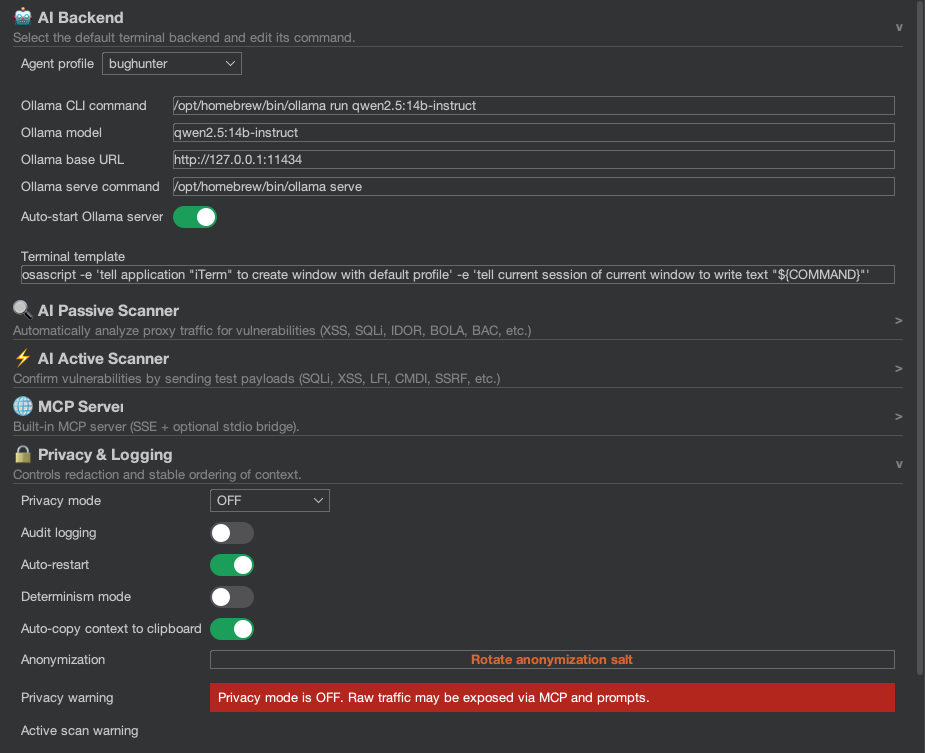
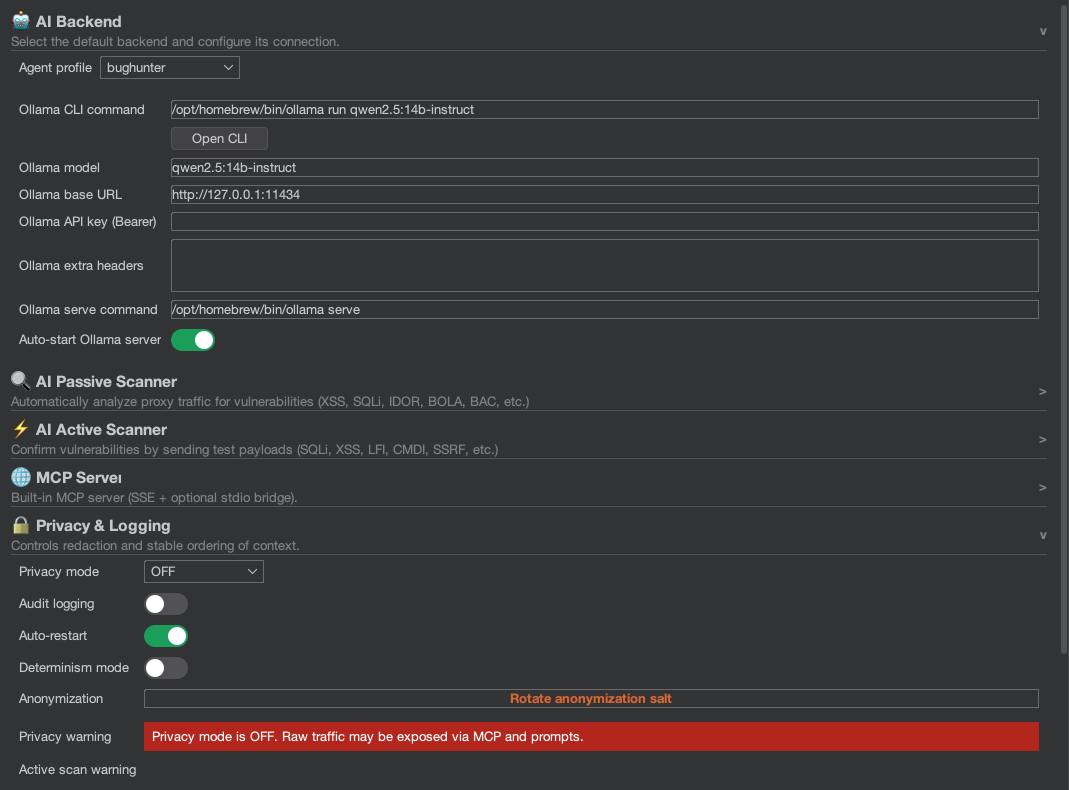
Update docs for 0.1.1

diff --git a/reference/settings-reference.md b/reference/settings-reference.md
@@ -6,20 +6,29 @@ This page documents every configurable setting in the extension, organized by se
 
 | Setting | Type | Default | Description |
 | :--- | :--- | :--- | :--- |
-| **Preferred Backend** | Dropdown | `codex-cli` | Backend used for new chat sessions. Options: `ollama`, `lmstudio`, `gemini-cli`, `claude-cli`, `codex-cli`, `opencode-cli`. |
+| **Preferred Backend** | Dropdown | `codex-cli` | Backend used for new chat sessions. Options: `ollama`, `lmstudio`, `openai-compatible`, `gemini-cli`, `claude-cli`, `codex-cli`, `opencode-cli`. |
 | **Codex CLI Command** | Text | `codex chat` | Shell command to launch the Codex backend. |
 | **Gemini CLI Command** | Text | `gemini` | Shell command to launch the Gemini backend. |
 | **Claude CLI Command** | Text | `claude` | Shell command to launch the Claude backend. |
 | **OpenCode CLI Command** | Text | `opencode` | Shell command to launch the OpenCode backend. |
 | **Ollama URL** | Text | `http://127.0.0.1:11434` | Base URL for the Ollama HTTP API. |
 | **Ollama Model** | Text | `llama3.1` | Model name to use with Ollama. |
+| **Ollama API Key** | Text | *(empty)* | Optional `Authorization: Bearer` token for Ollama-compatible servers. |
+| **Ollama Extra Headers** | Multiline | *(empty)* | Extra headers, one per line (`Header: value`). |
 | **Ollama Auto-Start** | Toggle | On | Automatically start `ollama serve` when backend is selected. |
 | **Ollama Serve Command** | Text | `ollama serve` | Custom command to start the Ollama server. |
 | **LM Studio URL** | Text | `http://127.0.0.1:1234` | Base URL for the LM Studio HTTP API. |
 | **LM Studio Model** | Text | `lmstudio` | Model identifier for LM Studio. |
+| **LM Studio API Key** | Text | *(empty)* | Optional `Authorization: Bearer` token for OpenAI-compatible servers. |
+| **LM Studio Extra Headers** | Multiline | *(empty)* | Extra headers, one per line (`Header: value`). |
 | **LM Studio Auto-Start** | Toggle | On | Automatically start LM Studio server. |
 | **LM Studio Server Command** | Text | `lms server start` | Custom command to launch LM Studio server. |
 | **LM Studio Timeout** | Number | `120` | Timeout in seconds for LM Studio requests (range: 30–3600). |
+| **OpenAI-Compatible URL** | Text | *(empty)* | Base URL for an OpenAI-compatible provider. |
+| **OpenAI-Compatible Model** | Text | *(empty)* | Model identifier sent in requests. |
+| **OpenAI-Compatible API Key** | Text | *(empty)* | Optional `Authorization: Bearer` token. |
+| **OpenAI-Compatible Extra Headers** | Multiline | *(empty)* | Extra headers, one per line (`Header: value`). |
+| **OpenAI-Compatible Timeout** | Number | `120` | Timeout in seconds for OpenAI-compatible requests (range: 30–3600). |
 | **Auto-Restart** | Toggle | On | Automatically restart a crashed CLI backend. |
 | **Agent Profile** | Dropdown | `pentester` | System instruction profile. Options: `pentester`, `bughunter`, `auditor`. See [Agent Profiles](../user-guide/agent-profiles.md). |
 
@@ -81,7 +90,7 @@ This page documents every configurable setting in the extension, organized by se
 | Setting | Type | Description |
 | :--- | :--- | :--- |
 | **Find Vulnerabilities** | Text area | Default prompt for the "Find vulnerabilities" context menu action. |
-| **Quick Recon** | Text area | Default prompt for endpoint reconnaissance. |
+| **Analyze this request** | Text area | Default prompt for endpoint summary. |
 | **Explain JS** | Text area | Default prompt for JavaScript behavior analysis. |
 | **Access Control** | Text area | Default prompt for authorization test plan generation. |
 | **Login Sequence** | Text area | Default prompt for login flow extraction. |

diff --git a/reference/prompt-defaults.md b/reference/prompt-defaults.md
@@ -5,30 +5,30 @@ These are the default prompt templates used for the context menu actions. You ca
 ## Request-Based Prompts
 
 ### Find Vulnerabilities
-> Analyze this HTTP request/response for security vulnerabilities. Check for: injection points (SQLi, XSS, CMDI, SSTI, SSRF), authentication/authorization flaws (IDOR, BOLA, BAC), information disclosure, insecure headers/cookies, sensitive data exposure, misconfigurations. For each finding provide: vulnerability type, evidence, severity (CVSS), exploitation steps, and remediation.
+> Always answer in English. Analyze this HTTP request/response for security vulnerabilities. Check for: injection points (SQLi, XSS, CMDI, SSTI, SSRF), authentication/authorization flaws (IDOR, BOLA, BAC), information disclosure, insecure headers/cookies, sensitive data exposure, misconfigurations. For each finding provide: vulnerability type, evidence, severity (CVSS), exploitation steps, and remediation.
 
-### Quick Recon
-> Summarize this endpoint for recon: HTTP method, path, authentication mechanism, all parameters (query/body/headers/cookies), response data type and key fields, notable security observations. Format: 5-7 concise bullets.
+### Analyze this request
+> Always answer in English. Summarize this endpoint: HTTP method, path, authentication mechanism, all parameters (query/body/headers/cookies), response data type and key fields, notable security observations. Format: 5-7 concise bullets.
 
 ### Explain JS
-> Summarize JS behavior and any security impact. Output: bullets + 1 risk note.
+> Always answer in English. Summarize JS behavior and any security impact. Output: bullets + 1 risk note.
 
 ### Access Control
-> Design an access-control test plan for this request: horizontal/vertical escalation, missing authorization checks, auth bypass. For each test, give the modified request and expected outcome.
+> Always answer in English. Design an access-control test plan for this request: horizontal/vertical escalation, missing authorization checks, auth bypass. For each test, give the modified request and expected outcome.
 
 ### Login Sequence
-> Draft a login sequence from this traffic. Output: steps + parameters to capture.
+> Always answer in English. Draft a login sequence from this traffic. Output: steps + parameters to capture.
 
 ## Issue-Based Prompts
 
 ### Analyze this Issue
-> Analyze the finding. Explain the vulnerability and root cause, cite concrete evidence from the request/response, and list precise validation steps.
+> Always answer in English. Analyze the finding. Explain the vulnerability and root cause, cite concrete evidence from the request/response, and list precise validation steps.
 
 ### Generate PoC & Validate
-> Provide a step-by-step PoC with exact HTTP requests (curl where possible), expected responses, and safe validation criteria.
+> Always answer in English. Provide a step-by-step PoC with exact HTTP requests (curl where possible), expected responses, and safe validation criteria.
 
 ### Impact & Severity
-> Assess impact and severity: CIA impact, exploitability, likely business risk, and CVSS considerations. Keep it concise.
+> Always answer in English. Assess impact and severity: CIA impact, exploitability, likely business risk, and CVSS considerations. Keep it concise.
 
 ### Full Report
-> Write a complete vulnerability report: summary, root cause, evidence, impact, PoC, remediation.
+> Always answer in English. Write a complete vulnerability report: summary, root cause, evidence, impact, PoC, remediation.

diff --git a/user-guide/context-menus.md b/user-guide/context-menus.md
@@ -15,15 +15,27 @@ When you right-click on an HTTP request/response, these actions are available un
 
 | Action                   | Description                                                                                                                                        |
 | ------------------------ | -------------------------------------------------------------------------------------------------------------------------------------------------- |
+| **AI Passive Scan**      | Queues the selected request(s) for passive AI analysis in the background.                                                                          |
+| **AI Active Scan**       | Queues the selected request(s) for active vulnerability testing. **Sends traffic to the target.**                                                  |
+| **Targeted tests**       | Submenu to run focused active checks (SQLi, XSS, SSRF, IDOR, etc.). **Sends traffic to the target.**                                               |
 | **Find vulnerabilities** | Comprehensive security analysis: checks for SQLi, XSS, CMDI, SSTI, SSRF, IDOR, BOLA, BAC, information disclosure, header/cookie misconfigurations. |
-| **Quick recon**          | Compact 5-7 bullet summary: HTTP method, path, auth mechanism, parameters, response type, security observations.                                   |
+| **Analyze this request** | Compact 5-7 bullet summary: HTTP method, path, auth mechanism, parameters, response type, security observations.                                   |
 | **Explain JS**           | Analyzes JavaScript behavior, summarizes functionality, and highlights security risks.                                                             |
 | **Access control**       | Generates a test plan for horizontal/vertical privilege escalation, authorization bypass, and missing access controls.                             |
 | **Login sequence**       | Drafts a login flow from the observed traffic, identifying parameters to capture and replay.                                                       |
-| **AI Passive Scan**      | Queues the selected request(s) for passive AI analysis in the background.                                                                          |
-| **AI Active Scan**       | Queues the selected request(s) for active vulnerability testing. **Sends traffic to the target.**                                                  |
 
 ![Screenshot: Request menu](../.gitbook/assets/context-menu-request.png)
+
+**Targeted tests submenu (examples):**
+* SQLi
+* XSS (Reflected/Stored/DOM)
+* SSRF
+* IDOR / BOLA
+* Path Traversal / LFI
+* Command Injection
+* SSTI
+* XXE
+* Open Redirect
 
 ## Issue Actions (Burp Pro)
 

diff --git a/backends/overview.md b/backends/overview.md
@@ -8,6 +8,7 @@ The Burp AI Agent is model-agnostic. It uses a "Supervisor" system to manage con
 | -------------- | ----- | ------- | ---------------------------------------------- |
 | **Ollama**     | Local | High    | Offline analysis, strict privacy requirements. |
 | **LM Studio**  | Local | High    | GUI-based model management, Windows users.     |
+| **Generic (OpenAI-compatible)** | HTTP | Medium | Any OpenAI-compatible provider (Z.AI, KILO, etc.). |
 | **Gemini CLI** | Cloud | Medium  | Large context window analysis.                 |
 | **Claude CLI** | Cloud | Medium  | Reasoning and logic analysis.                  |
 | **Codex CLI**  | Cloud | Medium  | Code analysis and PoC generation.              |
@@ -17,9 +18,9 @@ The Burp AI Agent is model-agnostic. It uses a "Supervisor" system to manage con
 
 1. Navigate to **Settings** → **AI Backend**.
 2. **Preferred Backend**: Choose the backend you want to use for _new_ chat sessions.
-3. **Command / URL**:
+3. **Command / URL / Headers**:
    * **CLI Backends**: Provide the shell command (e.g., `gemini`, `claude`). Ensure these tools are installed and authenticated in your OS terminal.
-   * **HTTP Backends**: Provide the URL (e.g., `http://127.0.0.1:11434` for Ollama).
+   * **HTTP Backends**: Provide the URL (e.g., `http://127.0.0.1:11434` for Ollama) plus optional API key and extra headers.
 
 ![Screenshot: Backend settings](../.gitbook/assets/backend-settings.png)
 
@@ -31,7 +32,7 @@ CLI backends (Gemini, Claude, Codex, OpenCode) are launched as subprocesses. The
 
 ### HTTP Backends
 
-HTTP backends (Ollama, LM Studio) communicate via direct HTTP API calls. No subprocess is spawned. The extension connects to an already-running server, or can optionally auto-start it.
+HTTP backends (Ollama, LM Studio, Generic OpenAI-compatible) communicate via direct HTTP API calls. No subprocess is spawned. The extension connects to an already-running server, or can optionally auto-start it (where supported).
 
 ## Custom Backends (Drop-in JARs)
 

diff --git a/README.md b/README.md
@@ -4,7 +4,7 @@
 
 Burp AI Agent is an extension for Burp Suite that integrates AI capabilities into your security workflow. It offers:
 
-* **Pluggable Backends**: Use local models (Ollama, LM Studio) or cloud providers (Gemini, Claude, OpenAI/Codex, OpenCode). Add custom backends via drop-in JARs.
+* **Pluggable Backends**: Use local models (Ollama, LM Studio), generic OpenAI-compatible providers, or cloud providers (Gemini, Claude, OpenAI/Codex, OpenCode). Add custom backends via drop-in JARs.
 * **Privacy-First Design**: Configurable redaction modes (Strict/Balanced/Off) to scrub sensitive data _before_ it leaves Burp.
 * **MCP Server**: A full Model Context Protocol (MCP) server with 53+ tools that allows external AI agents (like Claude Desktop) to interact with Burp — browsing history, sending requests, scanning, and creating issues autonomously.
 * **AI Scanners**: Passive and Active scanners that autonomously analyze traffic and flag vulnerabilities across 62 vulnerability classes.
@@ -16,7 +16,7 @@ Burp AI Agent is an extension for Burp Suite that integrates AI capabilities int
 
 | Feature                      | Description                                                                               |
 | ---------------------------- | ----------------------------------------------------------------------------------------- |
-| **6 Built-in Backends**      | Ollama, LM Studio, Gemini CLI, Claude CLI, Codex CLI, OpenCode CLI.                       |
+| **7 Built-in Backends**      | Ollama, LM Studio, Generic OpenAI-compatible, Gemini CLI, Claude CLI, Codex CLI, OpenCode CLI. |
 | **53+ MCP Tools**            | History, Repeater, Intruder, Scanner, Scope, Site Map, Collaborator, Utilities, and more. |
 | **62 Vulnerability Classes** | From SQLi and XSS to cache poisoning, JWT attacks, and API security issues.               |
 | **3 Scan Modes**             | BUG\_BOUNTY, PENTEST, and FULL for different engagement types.                            |

diff --git a/user-guide/prompt-templates.md b/user-guide/prompt-templates.md
@@ -28,6 +28,12 @@ Request structured data:
 
 > _"Provide your findings in Markdown format with sections for Vulnerability Type, Evidence, Severity (CVSS), and Remediation."_
 
+### Language Control
+
+If you want consistent output language across teams, add:
+
+> _"Always answer in English."_
+
 ### Step-by-Step PoC
 
 For exploit generation, request structured steps:
@@ -47,7 +53,7 @@ These templates are used when you right-click on HTTP requests/responses:
 | Template                 | Used By                       | Purpose                                                                                           |
 | ------------------------ | ----------------------------- | ------------------------------------------------------------------------------------------------- |
 | **Find Vulnerabilities** | "Find vulnerabilities" action | Comprehensive security analysis covering injection, auth, info disclosure, and misconfigurations. |
-| **Quick Recon**          | "Quick recon" action          | Concise endpoint summary (5-7 bullets).                                                           |
+| **Analyze this request** | "Analyze this request" action | Concise endpoint summary (5-7 bullets).                                                           |
 | **Explain JS**           | "Explain JS" action           | JavaScript behavior analysis and security risk notes.                                             |
 | **Access Control**       | "Access control" action       | Authorization test plan for privilege escalation.                                                 |
 | **Login Sequence**       | "Login sequence" action       | Login flow extraction from traffic.                                                               |

diff --git a/user-guide/chat-sessions.md b/user-guide/chat-sessions.md
@@ -10,12 +10,14 @@ Each chat session is an independent conversation with the AI. Sessions store:
 * **Creation time**: Timestamp for reference.
 * **Backend**: The AI backend that was active when the session was created.
 
+Session context is preserved per session. Follow-up prompts in the same session reuse the conversation history so the AI can keep track of previous responses and decisions.
+
 ### Parallel Sessions
 
 You can have multiple sessions open simultaneously, each using a different backend. For example:
 
 * Session 1: Claude analyzing a complex authentication flow.
-* Session 2: Ollama (local) doing quick recon on API endpoints.
+* Session 2: Ollama (local) analyzing API endpoints.
 
 Switch between sessions using the session list in the left sidebar.
 
@@ -60,6 +62,6 @@ The **Tools** button opens a menu of available MCP tools. Selecting a tool inser
 
 * **Be specific**: "Check this request for IDOR in the `user_id` parameter" is better than "find bugs."
 * **Use context menu shortcuts**: The pre-built actions have optimized prompts that produce better results than freeform questions.
-* **Iterate**: If the first response isn't detailed enough, ask follow-up questions in the same session — the AI has the full conversation context.
+* **Iterate**: If the first response isn't detailed enough, ask follow-up questions in the same session — the AI keeps the conversation context per session.
 * **Compare backends**: Try the same analysis with different backends to see which gives better results for your specific use case.
 * **Use passive scanner for volume**: For large-scope assessments, let the passive scanner work in the background and use chat for deep-dive analysis on specific findings.

diff --git a/scanners/active.md b/scanners/active.md
@@ -16,7 +16,11 @@ The Active AI Scanner performs **dynamic, targeted tests** against the applicati
 2. **Injection points** are automatically extracted from the request (URL params, body params, headers, cookies, JSON fields, XML elements, path segments).
 3. For each injection point, the AI selects appropriate payloads based on the vulnerability class, risk level, and scan mode.
 4. Payloads are sent and responses are analyzed using multiple detection methods.
-5. Confirmed findings are reported as Burp issues with an `[AI Active]` prefix.
+5. Confirmed findings are reported as Burp issues with an `[AI Active]` prefix, normalized by vulnerability class (e.g., `[AI Active] SQLI`).
+
+## Targeted Tests (Context Menu)
+
+From the request context menu, **Targeted tests** lets you run focused active checks (SQLi, XSS, SSRF, IDOR, etc.) instead of scanning all classes. This uses the same active scanner pipeline and includes the same safety warnings.
 
 ## Risk Levels
 
@@ -50,6 +54,11 @@ The scan mode determines which vulnerability classes are tested. Choose based on
 * **Scope Only**: **CRITICAL**. Ensure this is checked to prevent scanning out-of-scope assets (e.g., Google Analytics, CDNs).
 * **Scan Mode**: Select `BUG_BOUNTY`, `PENTEST`, or `FULL`.
 * **Use Collaborator (OAST)**: Enable out-of-band checks. The scanner generates Burp Collaborator payloads and polls for DNS/HTTP interactions.
+
+## Issue Creation Behavior
+
+* Issue details are sanitized to plain text (Markdown formatting removed).
+* Issues are named by class (e.g., `[AI Active] SQLI`) and consolidated if an existing issue with the same name and base URL already exists.
 
 ## Vulnerability Classes
 

diff --git a/reference/troubleshooting.md b/reference/troubleshooting.md
@@ -27,7 +27,7 @@ Common issues and their resolutions.
 *   **Immediate crash**: If the backend crashes immediately after launch, check the extension output tab for the exit code and error output.
 
 ### Empty or "I don't know" responses
-*   **Context Limit**: If you attached too many requests, the model might be overwhelmed. Try a "Quick Recon" instead of "Find Vulnerabilities".
+*   **Context Limit**: If you attached too many requests, the model might be overwhelmed. Try "Analyze this request" instead of "Find Vulnerabilities".
 *   **Ollama not running**: Ensure the Ollama server is running (`ollama serve`).
 *   **Model not downloaded**: For Ollama, verify the model is available (`ollama list`).
 *   **Wrong backend selected**: Check that the backend dropdown in the top bar matches your intended backend.
@@ -36,6 +36,10 @@ Common issues and their resolutions.
 *   **Auto-restart disabled**: If the backend crashed previously, auto-restart may have been suppressed. Try restarting manually.
 *   **Port conflict** (HTTP backends): Ensure the Ollama/LM Studio port is not used by another process.
 *   **Environment variables**: Ensure API keys are set in the environment where Burp Suite is running, not just in your terminal profile.
+*   **Windows long command line**: Some CLI backends can fail if the prompt/context is extremely large (OS command length limit). Use a smaller selection or switch to an HTTP backend.
+
+### Windows: OpenCode CLI not found
+*   If OpenCode was installed via npm, the launcher is `opencode` (without `.exe`). The extension normalizes `opencode.exe`, but a custom path should point to the actual launcher.
 
 ## MCP Issues
 

diff --git a/user-guide/ui-tour.md b/user-guide/ui-tour.md
@@ -33,7 +33,7 @@ Accessible via the gear icon or settings sub-tab. Organized into collapsible acc
 
 | Section                | What It Controls                                                                                               |
 | ---------------------- | -------------------------------------------------------------------------------------------------------------- |
-| **AI Backend**         | Backend selection, CLI commands, HTTP URLs, model names, auto-start, timeouts.                                 |
+| **AI Backend**         | Backend selection, CLI commands, HTTP URLs, model names, API keys, extra headers, auto-start, timeouts.        |
 | **Privacy & Logging**  | Redaction mode (STRICT/BALANCED/OFF), determinism, host salt, audit logging toggle.                            |
 | **MCP Server**         | Host, port, TLS, external access, STDIO bridge, token, tool toggles, request limits.                           |
 | **Passive AI Scanner** | Rate limit, scope filtering, max size, min severity, findings view.                                            |
@@ -42,6 +42,9 @@ Accessible via the gear icon or settings sub-tab. Organized into collapsible acc
 | **Help**               | Quick links to documentation, MCP setup guide, and version info.                                               |
 
 ![Screenshot: Settings panel](../.gitbook/assets/settings-panel.png)
+
+**Open CLI buttons**: In the backend settings, CLI-based backends include an **Open CLI** button to launch a terminal with the configured command and MCP tools access.
+
 
 ## Privacy Pill
 

diff --git a/backends/lm-studio.md b/backends/lm-studio.md
@@ -22,6 +22,8 @@ Connects directly to the LM Studio local server API.
 | **Preferred Backend** | `LM Studio` (select from dropdown)                                    |
 | **LM Studio URL**     | `http://127.0.0.1:1234` (default)                                     |
 | **LM Studio Model**   | The identifier of the model you loaded (check LM Studio's server log) |
+| **LM Studio API Key** | *(optional)* `Bearer` token                                           |
+| **LM Studio Headers** | *(optional)* Extra headers                                            |
 
 ### 2. Auto-Start Mode
 
@@ -45,6 +47,8 @@ When Auto-Start is enabled, the extension runs the server command automatically 
 | **Auto-Start**      | On                      | Automatically start the LM Studio server.                                                 |
 | **Server Command**  | `lms server start`      | Custom command to launch the server.                                                      |
 | **Timeout**         | 120 seconds             | Request timeout (range: 30–3600 seconds). Increase for larger models or complex analyses. |
+| **API Key**         | *(empty)*               | Optional `Authorization: Bearer` token for OpenAI-compatible servers.                     |
+| **Extra Headers**   | *(empty)*               | Extra headers, one per line (`Header: value`).                                            |
 
 ## Troubleshooting
 

diff --git a/backends/openai-compatible.md b/backends/openai-compatible.md
@@ -1,0 +1,36 @@
+# Generic (OpenAI-compatible)
+
+Use this backend to connect to any provider that implements the OpenAI-compatible Chat Completions API (`/v1/chat/completions`).
+
+## Setup
+
+1. Obtain the base URL from your provider.
+2. Identify the model name you want to use.
+3. Configure in Burp: **Burp AI Agent → Settings → AI Backend**:
+
+| Setting                     | Value                          |
+| -------------------------- | ------------------------------ |
+| **Preferred Backend**      | `Generic (OpenAI-compatible)`  |
+| **Base URL**               | Provider base URL              |
+| **Model**                  | Provider model identifier      |
+| **API Key (Bearer)**       | *(optional)* if required       |
+| **Extra Headers**          | *(optional)* additional headers |
+| **Timeout (seconds)**      | Increase for large responses   |
+
+Headers are entered one per line:
+
+```
+X-Org: myorg
+X-Project: myproj
+```
+
+## Notes
+
+* The backend uses non-streaming responses by default.
+* If the provider requires authentication, set **API Key (Bearer)** or provide the header manually.
+
+## Troubleshooting
+
+* **HTTP 401/403**: Check your API key and headers.
+* **HTTP 404**: Verify the base URL and that `/v1/chat/completions` is supported.
+* **Timeouts**: Increase the timeout value or use a smaller model.
